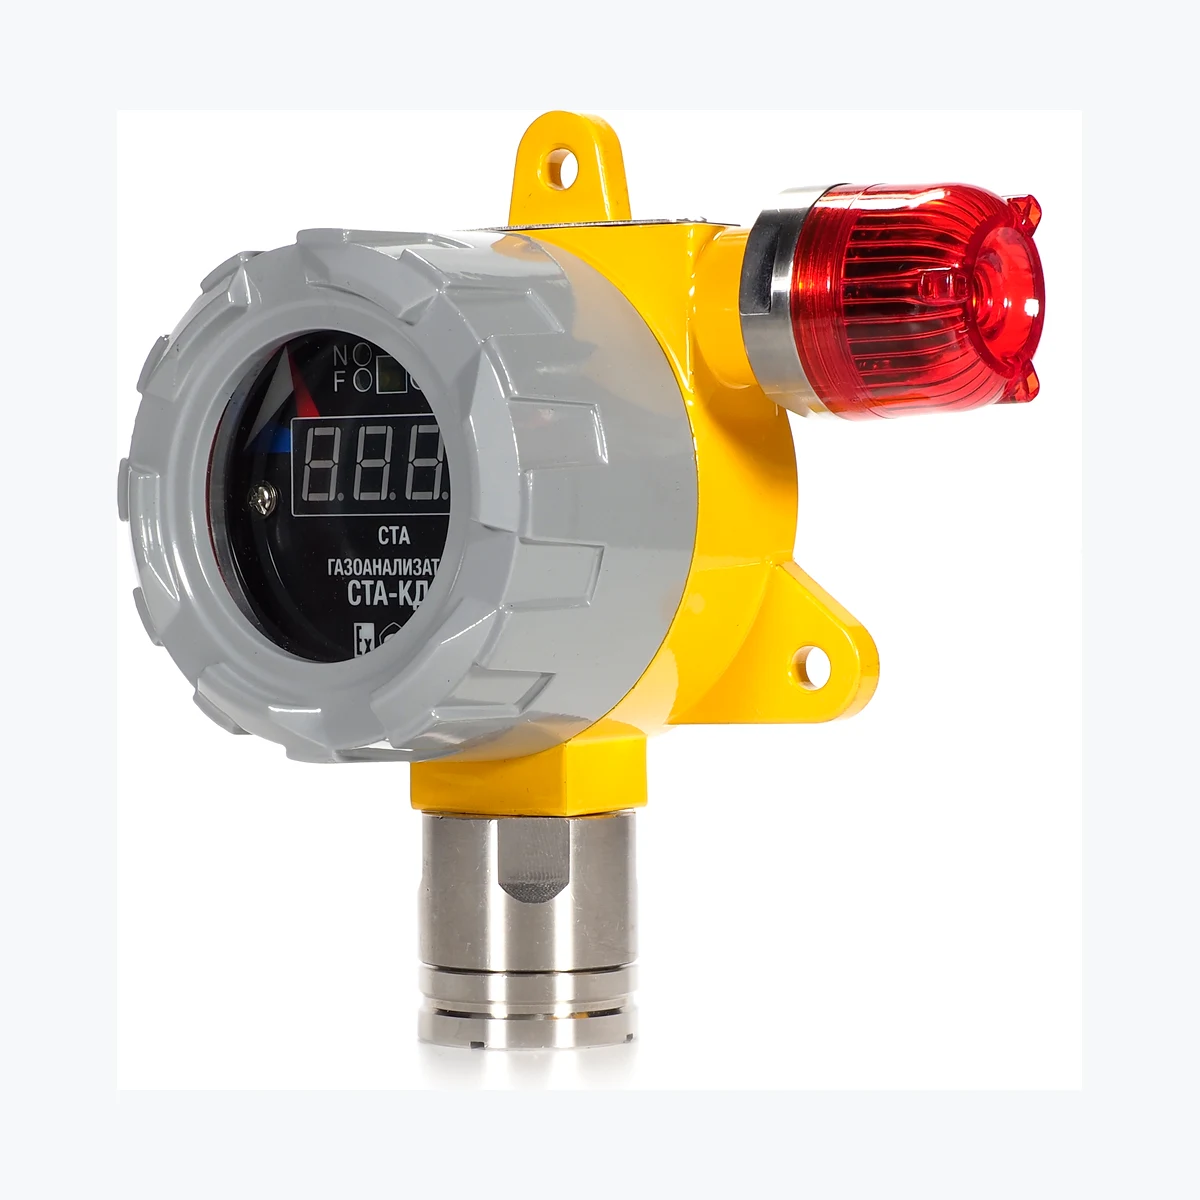
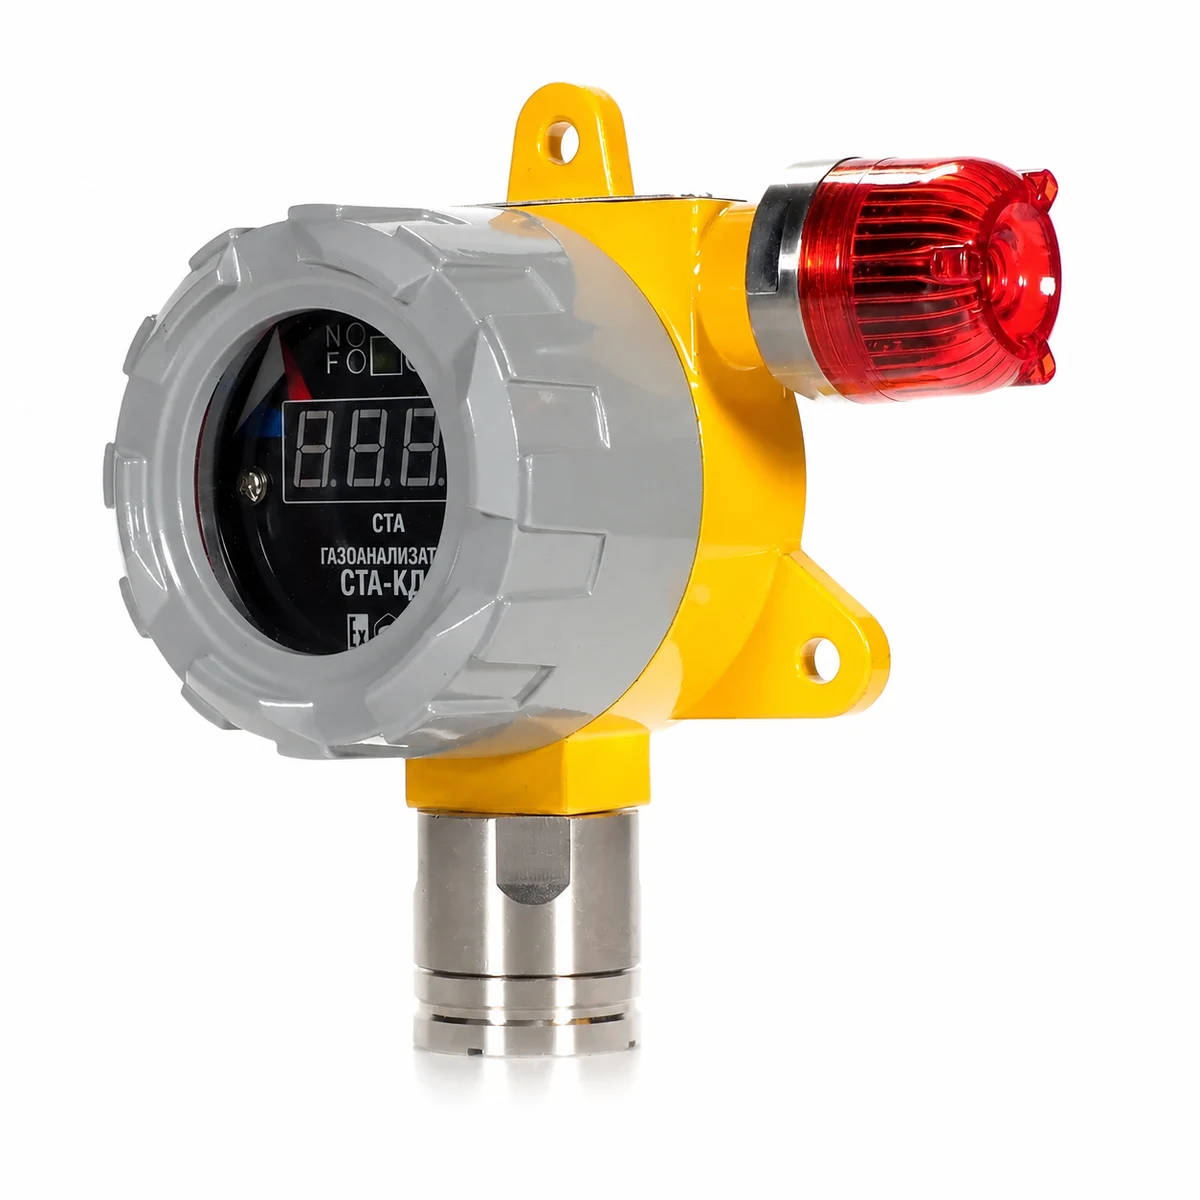
Polish STA-KD1 product media

Changed region(s): [[0.0617, 0.0617, 0.8942, 0.8942], [0.4933, 0.3392, 0.5242, 0.4008], [0.4008, 0.4317, 0.4625, 0.4625]]

diff --git a/web/src/components/product-detail.tsx b/web/src/components/product-detail.tsx
@@ -172,8 +172,11 @@ export function ProductDetail({ product, gases, brands }: ProductDetailProps) {
       <section className="product-verification-note">
         <ShieldCheck aria-hidden="true" size={24} />
         <div>
-          <strong>Характеристики сверены с источниками</strong>
-          <p>Перед заказом уточняем исполнение, диапазон и комплект поставки в коммерческом предложении.</p>
+          <strong>Документация и метрология подтверждены</strong>
+          <p>
+            Для модели доступны руководство по эксплуатации, описание типа СИ и методика поверки. Исполнение и
+            диапазон указываются в коммерческом предложении.
+          </p>
         </div>
       </section>
     </div>

diff --git a/web/src/app/globals.css b/web/src/app/globals.css
@@ -924,7 +924,7 @@ img {
 .product-card-media {
   aspect-ratio: 16 / 10;
   padding: 18px;
-  background: #edf2f4;
+  background: #ffffff;
   border-bottom: 1px solid var(--line);
 }
 
@@ -1101,7 +1101,7 @@ img {
 .product-gallery-main {
   aspect-ratio: 1 / 1;
   padding: 34px;
-  background: #eaf0f3;
+  background: #ffffff;
   border: 1px solid var(--line);
   border-radius: var(--radius);
 }
@@ -1139,7 +1139,7 @@ img {
   min-width: 0;
   padding: 7px;
   cursor: pointer;
-  background: #f5f8f9;
+  background: #ffffff;
   border: 1px solid var(--line);
   border-radius: 4px;
 }
@@ -1382,6 +1382,10 @@ img {
   color: #144a43;
   background: #e3f2ef;
   border-left: 4px solid var(--teal);
+}
+
+.product-verification-note > svg {
+  flex: 0 0 auto;
 }
 
 .product-verification-note p {
